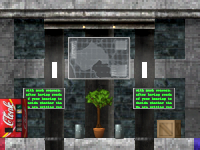
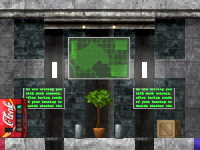
* Neue Topfpflanzen in passende Szenarien eingefügt und alte Hazard-Gegenstücke ersetzt. * Titelbilder aktualisiert. * Endless Outpost: Dekoration verbessert.

diff --git a/ModernCombatFINALTRY.c4f/CMC_BabelTower.c4s/Script.c b/ModernCombatFINALTRY.c4f/CMC_BabelTower.c4s/Script.c
@@ -485,20 +485,27 @@ func CreateDecoration()
   CreateObject(LCKR, 510, 1610, -1);
   CreateObject(LCKR, 650, 1610, -1);
 
-  //Pflanzen
+  //Topfpflanzen
   CreateObject(PLNT, 375, 700, -1);
   CreateObject(PLNT, 795, 700, -1);
+  CreateObject(PLT3, 585, 870, -1);
   CreateObject(PLNT, 380, 950, -1);
   CreateObject(PLNT, 790, 950, -1);
   CreateObject(PLNT, 380, 1100, -1);
   CreateObject(PLNT, 790, 1100, -1);
+  CreateObject(PLT3, 520, 1120, -1);
+  CreateObject(PLT3, 650, 1120, -1);
   CreateObject(PLNT, 380, 1250, -1);
   CreateObject(PLNT, 790, 1250, -1);
+  CreateObject(PLT3, 415, 1610, -1);
+  CreateObject(PLT3, 755, 1610, -1);
   CreateObject(PLNT, 390, 1690, -1);
   CreateObject(PLNT, 390, 1800, -1);
   CreateObject(PLNT, 785, 1690, -1);
   CreateObject(PLNT, 785, 1800, -1);
   CreateObject(PLNT, 640, 1675, -1);
+  CreateObject(PLT3, 400, 1940, -1);
+  CreateObject(PLT3, 770, 1940, -1);
 
   //Apparaturen
   CreateObject(GADG, 565, 870, -1)->Set(1);
@@ -520,21 +527,15 @@ func CreateDecoration()
   CreateObject(ENGT, 585, 1370, -1);
 
   //Bildschirme
-  CreateObject(SCA2, 585, 810, -1);
+  CreateObject(SCA2, 585, 810, -1)->SetClrModulation(RGB(50,255,0));
   CreateObject(SCR3, 530, 840, -1);
-  CreateObject(SCR3, 640, 840, -1);
-  CreateObject(SCA2, 585, 1490, -1)->SetAction("Clonk");
-  CreateObject(SCR3, 530, 1900, -1);
-  CreateObject(SCR3, 640, 1900, -1);
-
-  //Topfpflanzen
-  CreateObject(PLT3, 585, 870, -1);
-  CreateObject(PLT2, 520, 1120, -1);
-  CreateObject(PLT2, 650, 1120, -1);
-  CreateObject(PLT3, 415, 1610, -1);
-  CreateObject(PLT3, 755, 1610, -1);
-  CreateObject(PLT2, 400, 1940, -1);
-  CreateObject(PLT2, 770, 1940, -1);
+  CreateObject(SCR3, 640, 840, -1)->SetPhase(10);
+  CreateObject(SCA1, 585, 1490, -1)->SetAction("Grenade");
+  var screen = CreateObject(SCA1, 585, 1530, -1)
+  screen->SetAction("Grenade");
+  screen->SetPhase(20);
+  CreateObject(SCR3, 530, 1905, -1)->SetClrModulation(RGB(255,0,0));
+  CreateObject(SCR3, 640, 1905, -1)->SetClrModulation(RGB(00,150,250));
 
   //Flaschen
   CreateObject(BOTL, 770, 1472, -1);

diff --git a/ModernCombatFINALTRY.c4f/CMC_OperationMetro.c4s/Script.c b/ModernCombatFINALTRY.c4f/CMC_OperationMetro.c4s/Script.c
@@ -351,22 +351,20 @@ func CreateDecoration()
   Log("$CreatingDecoration$");
 
   //Topfpflanzen
-  CreateObject(PLT2, 610, 440, -1);
-  CreateObject(PLT2, 730, 440, -1);
-
-  CreateObject(PLT2, 1170, 300, -1);
-  CreateObject(PLT2, 1170, 440, -1);
-  CreateObject(PLT2, 1290, 300, -1);
-  CreateObject(PLT2, 1290, 440, -1);
-  CreateObject(PLT2, 2410, 370, -1);
-  CreateObject(PLT2, 2830, 370, -1);
-  CreateObject(PLT2, 3950, 300, -1);
-  CreateObject(PLT2, 3950, 440, -1);
-  CreateObject(PLT2, 4070, 300, -1);
-  CreateObject(PLT2, 4070, 440, -1);
-
-  CreateObject(PLT2, 4510, 440, -1);
-  CreateObject(PLT2, 4630, 440, -1);
+  CreateObject(PLT3, 610, 440, -1);
+  CreateObject(PLT3, 730, 440, -1);
+  CreateObject(PLT3, 1170, 300, -1);
+  CreateObject(PLT3, 1170, 440, -1);
+  CreateObject(PLT3, 1290, 300, -1);
+  CreateObject(PLT3, 1290, 440, -1);
+  CreateObject(PLT3, 2410, 370, -1);
+  CreateObject(PLT3, 2830, 370, -1);
+  CreateObject(PLT3, 3950, 300, -1);
+  CreateObject(PLT3, 3950, 440, -1);
+  CreateObject(PLT3, 4070, 300, -1);
+  CreateObject(PLT3, 4070, 440, -1);
+  CreateObject(PLT3, 4510, 440, -1);
+  CreateObject(PLT3, 4630, 440, -1);
 
   //Notausgangslichter
   CreateObject(ETLT,1150, 255, -1);

diff --git a/ModernCombatFINALTRY.c4f/CMC_IslandStrike.c4s/Script.c b/ModernCombatFINALTRY.c4f/CMC_IslandStrike.c4s/Script.c
@@ -475,7 +475,8 @@ func CreateDecoration()
   CreateObject(MSGN, 6535, 510, -1);
   CreateObject(MSGN, 6545, 510, -1);
 
-  //Pflanzen
+  //Topfpflanzen
+  CreateObject(PLT3, 1030, 640, -1);
   CreateObject(PLNT, 1120, 625, -1);
   CreateObject(PLNT, 2715, 610, -1);
   CreateObject(PLNT, 6435, 610, -1);
@@ -574,8 +575,7 @@ func CreateDecoration()
   CreateObject(ENGT, 7190, 605, -1);
   CreateObject(ENGT, 7390, 605, -1);
 
-  //Topfpflanze
-  CreateObject(PLT2, 1030, 640, -1);
+
 
   //Tische
   CreateObject(GTBL, 1105, 640, -1);

diff --git a/ModernCombatFINALTRY.c4f/CMC_FusionReactor.c4s/Script.c b/ModernCombatFINALTRY.c4f/CMC_FusionReactor.c4s/Script.c
@@ -505,10 +505,10 @@ func CreateDecoration()
   CreateObject(FRAM, 1200, 930, -1);
 
   //Topfpflanzen
-  CreateObject(PLT2, 360, 880, -1);
-  CreateObject(PLT2, 740, 250, -1);
-  CreateObject(PLT2, 1090, 250, -1);
-  CreateObject(PLT2, 1470, 880, -1);
+  CreateObject(PLT3, 360, 880, -1);
+  CreateObject(PLT3, 740, 250, -1);
+  CreateObject(PLT3, 1090, 250, -1);
+  CreateObject(PLT3, 1470, 880, -1);
 
   //Poster
   CreateObject(PSTR, 510, 920, -1)->Set(3);
